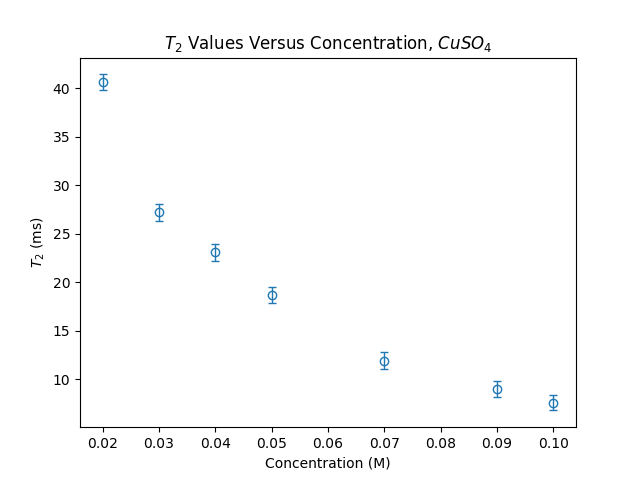
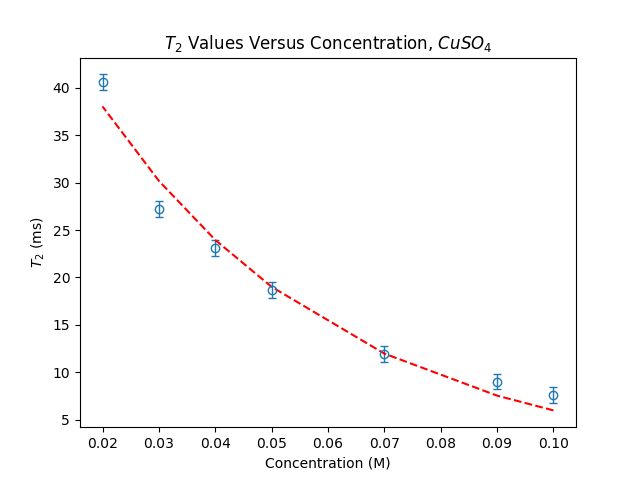
Added fits to concentration vs time plots

diff --git a/Pulsed_NMR/Analysis/20171128_plotting_tool_T2.py b/Pulsed_NMR/Analysis/20171128_plotting_tool_T2.py
@@ -8,13 +8,13 @@ data_dir = "../Data/"
 prefix = "2017-11-28-"
 suffix = "-pulse-NMR-data"
 
-T2_files = ["105856", "111023", "112038", "112817", "113807", "183508", "183928", "114941", "115303", "115554", "115933", "120402", "184420", "184623"]
+T2_files = ["105856", "183928", "183508", "111023", "112038", "112817", "113807", "115303", "184623", "184420", "114941", "115554", "115933", "120402"]
 
-sample_names = ["0.1M $CuSO_4$", "0.05M $CuSO_4$", "0.04M $CuSO_4$", "0.03M $CuSO_4$", "0.02M $CuSO_4$", "0.07M $CuSO_4$", "0.09M $CuSO_4$", "0.05M $FeCl_3$", "0.1M $FeCl_3$", "0.04M $FeCl_3$", "0.03M $FeCl_3$", "0.02M $FeCl_3$", "0.07M $FeCl_3$", "0.09M $FeCl_3$"]
+sample_names = ["0.1M $CuSO_4$","0.09M $CuSO_4$", "0.07M $CuSO_4$", "0.05M $CuSO_4$", "0.04M $CuSO_4$", "0.03M $CuSO_4$", "0.02M $CuSO_4$", "0.1M $FeCl_3$", "0.09M $FeCl_3$", "0.07M $FeCl_3$", "0.05M $FeCl_3$", "0.04M $FeCl_3$", "0.03M $FeCl_3$", "0.02M $FeCl_3$"]
 
 T2_values = []
 T2_uncertainties = []
-concentrations = [0.1, 0.05, 0.04, 0.03, 0.02, 0.07, 0.09, 0.05, 0.1, 0.04, 0.03, 0.02, 0.07, 0.09]
+concentrations = [0.1, 0.09, 0.07, 0.05, 0.04, 0.03, 0.02, 0.1, 0.09, 0.07, 0.05, 0.04, 0.03, 0.02]
 
 for i in range(len(T2_files)):
     number = T2_files[i]
@@ -50,12 +50,22 @@ for i in range(len(T2_files)):
     plt.text(min(time), min(amp), sample_type)
     plt.savefig("../Plots/"+filename+".png")
 
+
+def decay(t, A, b):
+    return A*np.exp(-t/b)
+
+popt, pcov = cf(decay, np.array(concentrations[0:7]), np.array(T2_values[0:7]), p0 = [max(T2_values[0:7]), 7E-3])
+# popt, pcov = cf(decay, np.array(concentrations[7:15]), np.array(T2_values[7:15]), p0 = [max(T2_values[7:15]), 7E-3])
+
 plt.figure()
 plt.xlabel("Concentration (M)")
 plt.ylabel("$T_2$ (ms)")
-# plt.title("$T_2$ Values Versus Concentration, $CuSO_4$")
-# plt.errorbar(concentrations[0:7], T2_values[0:7], yerr = 2*np.array(T2_uncertainties[0:7]), capsize=3, elinewidth=1, fmt = 'o', fillstyle = 'none')
-# plt.savefig("../Plots/"+"T2_concentrations_cuso4.png")
-plt.title("$T_2$ Values Versus Concentration, $FeCl_3$")
-plt.errorbar(concentrations[8:15], T2_values[8:15], yerr = T2_uncertainties[8:15], capsize=3, elinewidth=1, fmt = 'o', fillstyle = 'none')
-plt.savefig("../Plots/"+"T2_concentrations_fecl3.png")
+plt.title("$T_2$ Values Versus Concentration, $CuSO_4$")
+plt.errorbar(concentrations[0:7], T2_values[0:7], yerr = 2*np.array(T2_uncertainties[0:7]), capsize=3, elinewidth=1, fmt = 'o', fillstyle = 'none')
+plt.plot(concentrations[0:7], decay(np.array(concentrations[0:7]),*popt), 'r--')
+plt.savefig("../Plots/"+"T2_concentrations_cuso4.png")
+
+# plt.title("$T_2$ Values Versus Concentration, $FeCl_3$")
+# plt.errorbar(concentrations[7:15], T2_values[7:15], yerr = T2_uncertainties[7:15], capsize=3, elinewidth=1, fmt = 'o', fillstyle = 'none')
+# plt.plot(concentrations[7:15], decay(np.array(concentrations[7:15]),*popt), 'r--')
+# plt.savefig("../Plots/"+"T2_concentrations_fecl3.png")

diff --git a/Pulsed_NMR/Analysis/20171128_plotting_tool_T1.py b/Pulsed_NMR/Analysis/20171128_plotting_tool_T1.py
@@ -8,13 +8,13 @@ data_dir = "../Data/"
 prefix = "2017-11-28-"
 suffix = "-pulse-NMR-data"
 
-T1_files = ["190345", "191139", "191848", "192518", "193141", "193909", "194315"]
+T1_files = ["190345", "194315", "193909", "191139", "191848", "192518", "193141"]
 
-sample_names = ["0.1M $CuSO_4$", "0.05M $CuSO_4$", "0.04M $CuSO_4$", "0.03M $CuSO_4$", "0.02M $CuSO_4$", "0.07M $CuSO_4$", "0.09M $CuSO_4$"]
+sample_names = ["0.1M $CuSO_4$", "0.09M $CuSO_4$","0.07M $CuSO_4$",  "0.05M $CuSO_4$", "0.04M $CuSO_4$", "0.03M $CuSO_4$", "0.02M $CuSO_4$"]
 
 T1_values = []
 T1_uncertainties = []
-concentrations = [0.1, 0.05, 0.04, 0.03, 0.02, 0.07, 0.09]
+concentrations = [0.1, 0.09, 0.07, 0.05, 0.04, 0.03, 0.02]
 
 for i in range(len(T1_files)):
     number = T1_files[i]
@@ -67,9 +67,15 @@ for i in range(len(T1_files)):
     plt.savefig("../Plots/"+filename+".png")
 
 
+def decay(t, A, b):
+    return A*np.exp(-t/b)
+
+popt, pcov = cf(decay, np.array(concentrations), np.array(T1_values), p0 = [max(T1_values), 7E-3])
+
 plt.figure()
 plt.xlabel("Concentration (M)")
 plt.ylabel("$T_1$ (ms)")
 plt.title("$T_1$ Values Versus Concentration, $CuSO_4$")
 plt.errorbar(concentrations, T1_values, yerr = np.array(T1_uncertainties), capsize=3, elinewidth=1, fmt = 'o', fillstyle = 'none')
+plt.plot(concentrations, decay(np.array(concentrations),*popt), 'r--')
 plt.savefig("../Plots/"+"T1_concentrations_cuso4.png")
